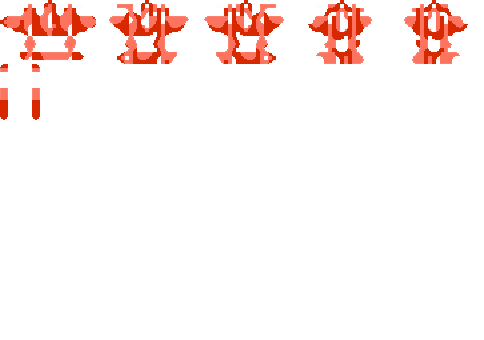
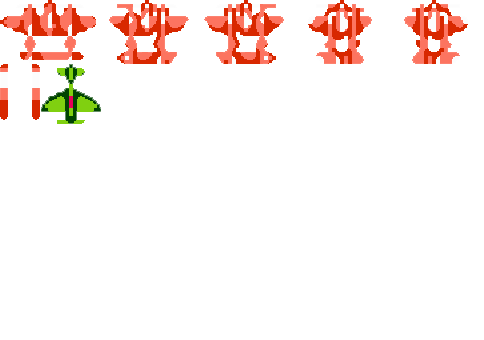
可以获取到碰撞双方的对象

Changed region(s): [[0.062, 0.1765, 0.2169, 0.3824]]

diff --git a/ceshi.html b/ceshi.html
@@ -144,6 +144,8 @@
 				spitit.$NY = 0;
 				aircraft.Z = 0;
 				aircraft.px = 0;
+				//重绘碰撞体
+				GRbit.ArcadeCrash.resetDraw(aircraft);
 			});
 		}
 		//主角飞机类
@@ -155,6 +157,7 @@
 			//子弹类型
 			this.shellType = 1;
 		}
+		
 		//通用子弹类
 		var Shell = function(Pro){
 			GRbit.ImgSpitit.call(this,Pro);
@@ -191,6 +194,8 @@
 			Pro.track = function(){
 				this.y -= 13;
 			};
+			//子弹是否已经触发碰撞
+			Pro.isint = false;
 			//子弹目标
 			Pro.target = null;
 			Pro.onUpdata = function(){
@@ -202,21 +207,25 @@
 			}
 			return (new Shell(Pro));
 		}
-		//创建靶机
-		var aircraft3 = new Aircraft({
+		//创建敌机
+		var enemy = new Aircraft({
 			x:100,
-			y:200,
+			y:100,
 			Z:0,
+			HP:10,
 			imgObj:coverageImage,
-			width:70,
-			height:44,
-			px:96,
-			py:0,
-			pwidth:96,
-			pheight:64,
+			width:50,
+			height:50,
+			px:41,
+			py:64,
+			pwidth:60,
+			pheight:60,
+			onUpdata:function(){
+				if(this.HP<0){
+					this.remove();
+				}
+			}
 		})
-		GRbit.spititList.push(aircraft3);
-		GRbit.ArcadeCrash.addCrash(aircraft3,"zj3");
 		//创建一个我方飞机
 		var aircraft = new Aircraft({
 			x:200,
@@ -247,11 +256,14 @@
 				//发射子弹
 				if(GRbit.$roll%5==0&&GRbit.$roll%20!=0){
 					let shell = Shell_1(this.x,this.y-this.height/2);
-//					console.log(shell);
 					GRbit.spititList.push(shell);
 					GRbit.ArcadeCrash.addCrash(shell,"zd",{
-						"zj3":function(){
-							return 1;
+						"zj3":function(obj,obj2){
+							if(!obj.isint){
+								obj2.HP--;
+								obj.isint = true;
+								obj.remove();
+							}
 						}
 					});
 				}
@@ -259,9 +271,16 @@
 		})
 		onDrag(aircraft);
 		GRbit.spititList.push(aircraft);
-
 		//创建一个街机碰撞
 		GRbit.ArcadeCrash.addCrash(aircraft,"zj");
+		
+		GRbit.spititList.push(enemy);
+		GRbit.ArcadeCrash.addCrash(enemy,"zj3",{
+			"zj":function(){
+				return 1;
+			}
+		});
+		
 		//启动碰撞映射
 		GRbit.ArcadeCrash.crachMapStart()
 		//启动街机碰撞

diff --git a/Rabbit.js b/Rabbit.js
@@ -331,13 +331,16 @@ function GRabbit(){
 		    			switch(that.stage[n]){
 		    				//当大地图数据为0的时候，可以进行放置
 		    				case 0:{
-		    					that.stage[n] = imgSpitit.$name;
+		    					that.stage[n] = [imgSpitit.$name,imgSpitit];
 		    					break;
 		    				}
 		    				//为非0的时候，此处有像素点被占用
 		    				default:{
-		    					if(typeof imgSpitit.$him[that.stage[n]]=="function"){
-		    						that.stage[n]=imgSpitit.$him[that.stage[n]]();
+//		    					console.log(that.stage[n][0]);
+		    					if(that.stage[n]){
+		    						if(typeof imgSpitit.$him[that.stage[n][0]]=="function"){
+		    							that.stage[n]=imgSpitit.$him[that.stage[n][0]](imgSpitit,that.stage[n][1]);
+		    						}
 		    					}
 		    					break;
 		    				}
